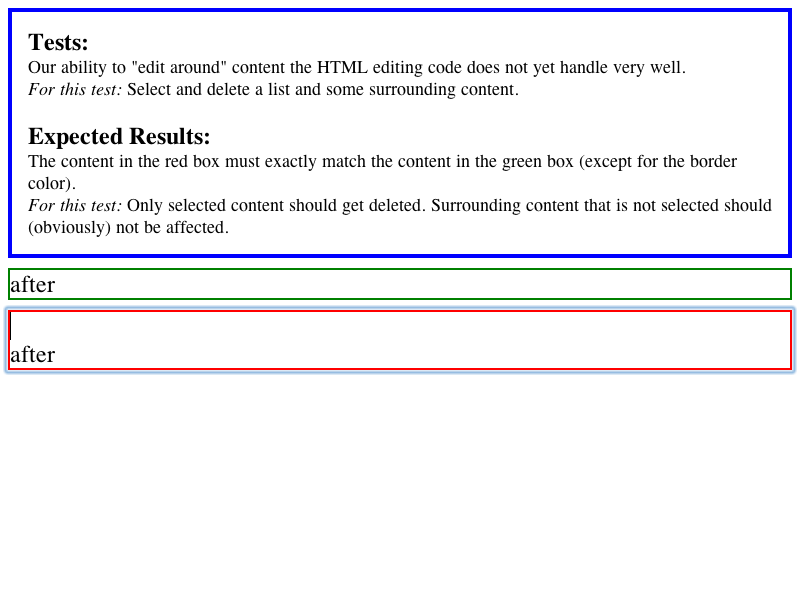
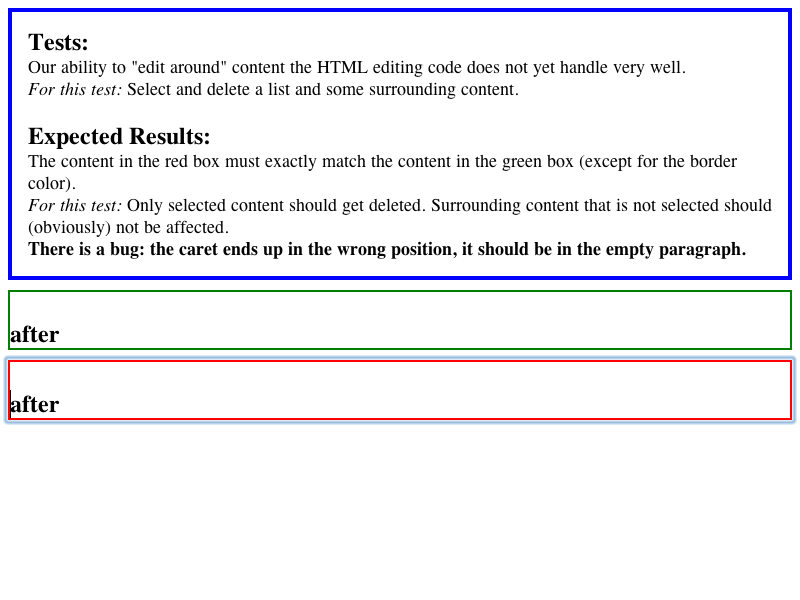
LayoutTests:
Reviewed by John.

        <rdar://problem/5237074> REGRESSION: editing/unsupported-content/table-delete-003 is failing (13931)
        
        Corrected the description and added a FIXME:
        * editing/unsupported-content/table-delete-003-expected.checksum:
        * editing/unsupported-content/table-delete-003-expected.png:
        * editing/unsupported-content/table-delete-003-expected.txt:
        * editing/unsupported-content/table-delete-003.html:

WebCore:

        Reviewed by John.
        
        <rdar://problem/5237074> REGRESSION: editing/unsupported-content/table-delete-003 is failing (13931)
        
        * editing/DeleteSelectionCommand.cpp:
        (WebCore::DeleteSelectionCommand::initializeStartEnd):
        We wouldn't expand the selection to include a special element 
        at the start of the selection unless the end of the selection 
        was at the end of a special element. Avoid a special 
        element at the start as long as it's fully selected. Ditto for 
        the end.
        * editing/htmlediting.cpp:
        (WebCore::positionBeforeContainingSpecialElement):
        (WebCore::positionAfterContainingSpecialElement):

git-svn-id: http://svn.webkit.org/repository/webkit/trunk/LayoutTests@22057 268f45cc-cd09-0410-ab3c-d52691b4dbfc

Changed region(s): [[0.0, 0.39, 1.0, 0.72]]

diff --git a/editing/unsupported-content/table-delete-003.html b/editing/unsupported-content/table-delete-003.html
@@ -47,10 +47,12 @@ Expected Results:
 The content in the red box must exactly match the content in the green box (except for the border color).
 <br><i>For this test: </i>Only selected content should get deleted. 
 Surrounding content that is not selected should (obviously) not be affected.
+<br><b>There is a bug: the caret ends up in the wrong position, it should be in the empty paragraph.
 </div>
 </div>
 
 <div class="results">
+<br>
 after
 </div>
 
